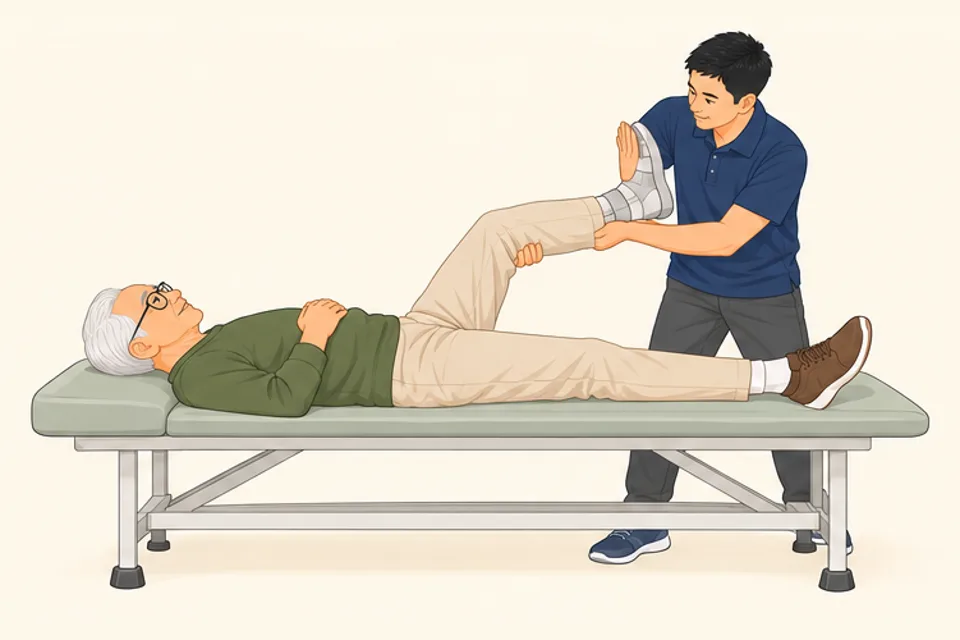
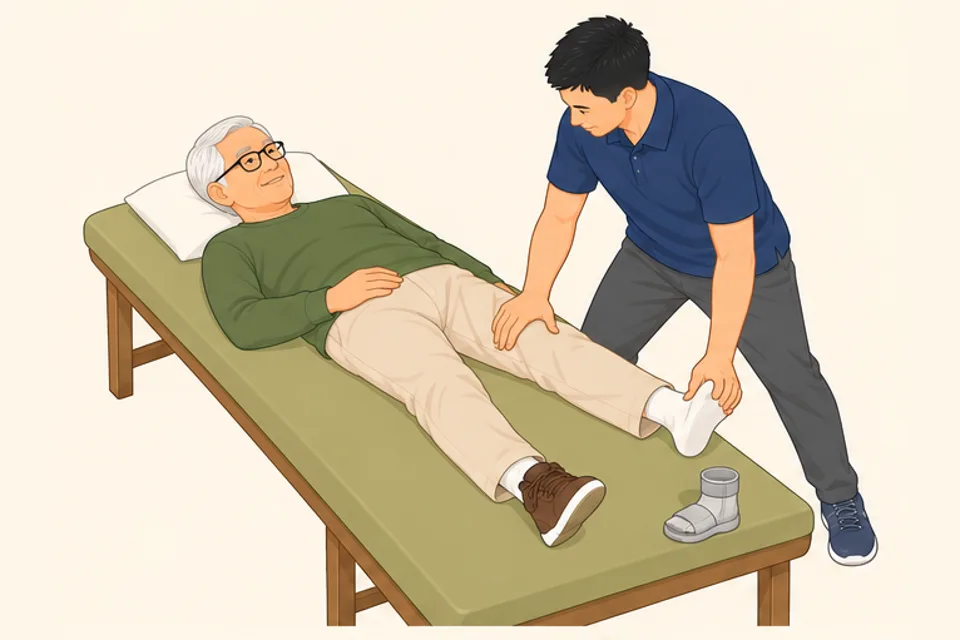
PNF beta：依 PNF in Practice 5th 手位標準重畫 19 張示意圖（圖說附書頁）

diff --git a/pnf-beta/figures.js b/pnf-beta/figures.js
@@ -46,6 +46,13 @@ window.PNF_FIGURES = {
    "alt": "阿伯屈膝仰躺準備做橋式，治療師雙手放在骨盆",
    "caption": "<b>橋式：</b>雙膝彎曲、雙腳踩床。治療師手放在骨盆給穩定阻力，或在膝上沿大腿往腳的方向擠壓，協助患側臀肌出力；骨盆抬起時注意腰不要過度後仰。",
    "credit": "本站以 AI 繪製之示意圖（非真人照片）"
+  },
+  {
+   "src": "img/4-2_roll.webp",
+   "ratio": 0.6667,
+   "alt": "白髮戴眼鏡、綠色毛衣、卡其褲的左側偏癱阿伯（左腳穿淺灰色踝足矯正器）仰躺在治療床靠近右緣的位置，正往右側（健側）翻身到一半：頭和眼睛已轉向右邊，左膝屈曲、左腳踩床，左手臂放在胸前。短黑髮、深藍色 polo 衫的年輕男治療師站在床的左側、阿伯",
+   "caption": "<b>翻身：</b>治療師在個案身後，一手勾在肩峰前方、一手勾在髂嵴前方，以肩胛與骨盆當「把手」引導向前翻；先請個案頭和眼睛轉向要翻的方向，再給口令「翻過來」。書中示範組合為骨盆前上提＋肩胛前下壓。",
+   "credit": "本站以 AI 繪製之示意圖（非真人照片）；手位依 Beckers & Buck (2021) 書頁 217–220"
   }
  ],
  "4-3": [
@@ -79,6 +86,27 @@ window.PNF_FIGURES = {
   }
  ],
  "4-4": [
+  {
+   "src": "img/4-4_sprinter_supine.webp",
+   "ratio": 0.6667,
+   "alt": "白髮戴眼鏡、綠色毛衣、卡其褲的左側偏癱阿伯（左腳穿淺灰色踝足矯正器）仰躺在治療床上，左腳矯正器已脫下。阿伯左腿屈髖屈膝往上抬（擺盪腿），右腿伸直平放（支撐腿）；右手往前上方舉向天花板偏左（與左腿成對角），左手伸直放在身旁床面；頭稍微轉向右側",
+   "caption": "<b>Sprinter（短跑者）仰躺版：</b>一側手往前上方舉，對側腳屈髖屈膝，像短跑跨步時手腳交替的姿勢；治療師一手在膝部、一手在前臂，引導手腳一起出力。",
+   "credit": "本站以 AI 繪製之示意圖（非真人照片）；手位依 Beckers & Buck (2021) "
+  },
+  {
+   "src": "img/4-4_sprinter_stand.webp",
+   "ratio": 0.6667,
+   "alt": "白髮戴眼鏡、綠色毛衣、卡其褲的左側偏癱阿伯（左腳穿淺灰色踝足矯正器）站在高度及腰的治療桌左側，身體朝前。阿伯左腳（患側，穿矯正器）支撐，右腳屈膝往前小幅抬起；右手扶在前方桌面，左手臂自然放在身旁；頭稍轉向左腳方向。短黑髮、深藍色 polo ",
+   "caption": "<b>Sprinter 站姿：</b>患腳支撐、健腳往前小幅抬起，健側手在前方扶桌；治療師在骨盆提供穩定，不代替個案抬腳。先短時間、在扶持下練習。",
+   "credit": "本站以 AI 繪製之示意圖（非真人照片）；手位依 Beckers & Buck (2021) "
+  },
+  {
+   "src": "img/4-4_skater.webp",
+   "ratio": 0.6667,
+   "alt": "白髮戴眼鏡、綠色毛衣、卡其褲的左側偏癱阿伯（左腳穿淺灰色踝足矯正器）站在高度及腰的治療桌旁，桌子在阿伯左側。阿伯左腳（患側，穿矯正器）支撐、膝微彎，身體稍往前傾，右腳往右後方伸、腳尖輕點地；左手扶在左側桌面，右手自然往前。短黑髮、深藍色 p",
+   "caption": "<b>Skater（溜冰者）：</b>患側腳支撐、身體稍前傾，對側腳往後伸，支撐側的手扶在桌上；治療師在骨盆協助穩定。先在扶持下短時間練習，再延長時間。（本練習來自以 PNF 為基礎的步行協調訓練，實證初步）",
+   "credit": "本站以 AI 繪製之示意圖（非真人照片）；手位依 Beckers & Buck (2021) "
+  },
   {
    "src": "img/4-4_photo_walk.webp",
    "ratio": 1.2931,
@@ -143,6 +171,13 @@ window.PNF_FIGURES = {
  ],
  "3-7": [
   {
+   "src": "img/3-7_hr.webp",
+   "ratio": 0.6667,
+   "alt": "白髮戴眼鏡、綠色毛衣、卡其褲的左側偏癱阿伯（左腳穿淺灰色踝足矯正器）坐在椅子上，左前臂放在身旁治療桌上的軟枕，左手肘已被伸到約 130 度、手指自然放鬆微彎。短黑髮、深藍色 polo 衫的年輕男治療師坐在阿伯左前方的矮凳上，右手手掌從下方貼",
+   "caption": "<b>維持放鬆用在中風手肘：</b>先把前臂支撐好，將手肘慢慢伸到感覺緊的位置，治療師手放在前臂掌側近手腕處，請個案「輕輕往彎的方向頂住、不要動」5～8 秒，一起慢慢放鬆後再伸直一點，最後請他主動伸肘。全程不可引起疼痛；須分清楚痙攣與攣縮。",
+   "credit": "本站以 AI 繪製之示意圖（非真人照片）；手位依 Beckers & Buck (2021) 書頁 52–53"
+  },
+  {
    "src": "img/3-7_photo_hamstring.webp",
    "ratio": 0.6742,
    "alt": "治療室裡，病人仰躺，治療師一手扶腳踝、一手扶膝上，把伸直的腿抬高做腿後肌伸展",
@@ -160,6 +195,13 @@ window.PNF_FIGURES = {
    "alt": "治療師托住阿伯手腕，另一手貼在手背與手指背側，引導手腕上翹、手指打開",
    "caption": "<b>打開手：</b>一手放在手背引導手腕往上翹、手指伸直，另一手在前臂近手腕處托住兩側，避免大面積接觸掌心以免誘發抓握。口令：「手腕抬起來……手指打開」。",
    "credit": "本站以 AI 繪製之示意圖（非真人照片）"
+  },
+  {
+   "src": "img/4-5_reach.webp",
+   "ratio": 0.6667,
+   "alt": "白髮戴眼鏡、綠色毛衣、卡其褲的左側偏癱阿伯（左腳穿淺灰色踝足矯正器）坐在桌前，桌上左前方放一個透明水杯。阿伯左手（患側）正往前伸向水杯，手肘接近伸直、手指張開，眼睛看著杯子；右手放在右大腿上。短黑髮、深藍色 polo 衫的年輕男治療師站在阿",
+   "caption": "<b>伸手拿東西：</b>患手伸向杯子，治療師在患側後方，一手手指勾在肩峰前方引導肩胛往前上方，另一手托住患側前臂；讓遠端的手完成拿取（近端引導、遠端活動）。偏癱肩：肩胛未帶動前，不強拉手臂。",
+   "credit": "本站以 AI 繪製之示意圖（非真人照片）；手位依 Beckers & Buck (2021) 書頁 136"
   }
  ],
  "1-2": [
@@ -257,6 +299,115 @@ window.PNF_FIGURES = {
     }
    ],
    "credit": "本站以 AI 繪製之示意圖（非真人照片）"
+  }
+ ],
+ "1-1": [
+  {
+   "src": "img/1-1_touch.webp",
+   "ratio": 0.6667,
+   "alt": "白髮戴眼鏡、綠色毛衣、卡其褲的左側偏癱阿伯（左腳穿淺灰色踝足矯正器）坐在無扶手椅上，左前臂放在身旁的治療桌上、手腕放鬆。短黑髮、深藍色 polo 衫的年輕男治療師站在阿伯左前方約 45 度斜角，採前後弓箭步（右腳在前），肩膀與骨盆都朝向阿伯",
+   "caption": "<b>停（手）：</b>用蚓狀肌抓握貼在「要出力的那一面」，施力方向與動作方向相反；治療師站在動作的對角線上，以身體重心給阻力，手臂保持放鬆。",
+   "credit": "本站以 AI 繪製之示意圖（非真人照片）；手位依 Beckers & Buck (2021) 書頁 24"
+  }
+ ],
+ "1-3": [
+  {
+   "src": "img/1-3_resist.webp",
+   "ratio": 0.6667,
+   "alt": "白髮戴眼鏡、綠色毛衣、卡其褲的左側偏癱阿伯（左腳穿淺灰色踝足矯正器）坐在椅子上，左臂正往左上方舉起（屈曲－外展－外旋，手指張開、手腕往拇指側上翹、前臂外轉），舉到約與肩同高。短黑髮、深藍色 polo 衫的年輕男治療師站在阿伯左後方斜角、靠近",
+   "caption": "<b>阻力：</b>遠端手以蚓狀肌抓握接觸手背、握住手的兩側給旋轉阻力，阻力方向沿弧線指回起始位置；治療師站在動作對角線上，以身體重量施力。阻力以「動作仍平順、可完成」為宜；一旦患側出現聯合反應，立即減輕。",
+   "credit": "本站以 AI 繪製之示意圖（非真人照片）；手位依 Beckers & Buck (2021) 書頁 103–107"
+  }
+ ],
+ "1-6": [
+  {
+   "src": "img/1-6_timing.webp",
+   "ratio": 0.6667,
+   "alt": "白髮戴眼鏡、綠色毛衣、卡其褲的左側偏癱阿伯（左腳的淺灰色踝足矯正器已脫下放在床尾，左腳只穿白襪，方便治療師接觸足背）仰躺在治療床上，靠近床的左緣，左腿伸直、略外展，左腳正往上勾、往內翻（腳背朝向右肩方向），膝與髖尚未彎曲。短黑髮、深藍色 p",
+   "caption": "<b>正常時序（遠端→近端）：</b>遠端手放在足背（不碰足底），先讓腳踝勾起並維持，再讓膝與髖一起屈曲。",
+   "credit": "本站以 AI 繪製之示意圖（非真人照片）；手位依 Beckers & Buck (2021) 書頁 157"
+  }
+ ],
+ "2-1": [
+  {
+   "src": "img/2-1_ant_elev.webp",
+   "ratio": 0.6667,
+   "alt": "白髮戴眼鏡、綠色毛衣、卡其褲的左側偏癱阿伯（左腳穿淺灰色踝足矯正器）向右側躺在治療床上，背部靠近床緣，髖與膝都屈曲約 45 度、兩膝之間夾一個枕頭，頭由枕頭支撐在中立位；左手臂自然放在身體前方的枕頭上，肱骨可自由移動。短黑髮、深藍色 pol",
+   "caption": "<b>肩胛前上提（anterior elevation）：</b>手指彎曲勾在肩峰與肩關節前方（用手指、不用手掌），引導肩胛往前上方、朝鼻子的方向；治療師站在個案身後腰部高度，面向個案頭部。",
+   "credit": "本站以 AI 繪製之示意圖（非真人照片）；手位依 Beckers & Buck (2021) 書頁 83–84"
+  },
+  {
+   "src": "img/2-1_post_dep.webp",
+   "ratio": 0.6667,
+   "alt": "白髮戴眼鏡、綠色毛衣、卡其褲的左側偏癱阿伯（左腳穿淺灰色踝足矯正器）向右側躺在治療床上，背部靠近床緣，髖膝屈曲約 45 度、兩膝間夾枕頭，左手臂放在身體前方的枕頭上。短黑髮、深藍色 polo 衫的年輕男治療師站在阿伯背後、約在阿伯腰部高度，",
+   "caption": "<b>肩胛後下壓（posterior depression）：</b>雙手掌根沿肩胛骨內緣與下角，手指指向肩峰，引導肩胛往下、往後、朝下胸椎方向收。中風個案的肩胛常停在後縮下壓，這個型態用來練主動控制，不是再把肩胛往下壓。",
+   "credit": "本站以 AI 繪製之示意圖（非真人照片）；手位依 Beckers & Buck (2021) 書頁 84–85"
+  }
+ ],
+ "2-3": [
+  {
+   "src": "img/2-3_ue_grip.webp",
+   "ratio": 0.6667,
+   "alt": "白髮戴眼鏡、綠色毛衣、卡其褲的左側偏癱阿伯（左腳穿淺灰色踝足矯正器）仰躺在治療床上、靠近床的左緣，左臂位於 D2 屈曲的起始位置：手臂伸直斜放在右髖前方、前臂內轉、手腕往小指側下彎、手指握起，掌心朝右髖。短黑髮、深藍色 polo 衫的年輕男",
+   "caption": "<b>上肢型態的手位：</b>遠端手只接觸手的「出力面」（D2 屈曲接觸手背、D1 屈曲接觸手掌），以蚓狀肌抓握握住手的兩側控制旋轉，不要整個握住；近端手從下方握住前臂近手腕處，屈肘型態再移到上臂。",
+   "credit": "本站以 AI 繪製之示意圖（非真人照片）；手位依 Beckers & Buck (2021) 書頁 105"
+  },
+  {
+   "src": "img/2-3_ue_d2flex.webp",
+   "ratio": 0.6667,
+   "alt": "白髮戴眼鏡、綠色毛衣、卡其褲的左側偏癱阿伯（左腳穿淺灰色踝足矯正器）仰躺在治療床上、靠近床的左緣，左臂位於 D2 屈曲的終點：手臂伸直舉到頭頂左外上方、約離左耳三指寬，掌心斜向外、手指張開、手腕往拇指側上翹，眼睛看著左手。短黑髮、深藍色 p",
+   "caption": "<b>上肢 D2 屈曲（屈曲－外展－外旋）：</b>手從對側髖前方往同側頭頂外上方舉起，手指張開、手腕往拇指側上翹，終點約離耳朵三指寬，像拔劍後高舉。口令：「手往上，舉起手臂」。",
+   "credit": "本站以 AI 繪製之示意圖（非真人照片）；手位依 Beckers & Buck (2021) 書頁 105–107"
+  }
+ ],
+ "2-4": [
+  {
+   "src": "img/2-4_le_flex.webp",
+   "ratio": 0.6667,
+   "alt": "白髮戴眼鏡、綠色毛衣、卡其褲的左側偏癱阿伯（左腳的淺灰色踝足矯正器已脫下放在床尾，左腳只穿白襪，方便治療師接觸足背）仰躺在治療床上、靠近床的左緣，左腿正在做屈曲－內收－外旋：左腳勾起並往內翻，左膝彎曲約 60 度，大腿斜向朝阿伯右肩方向越過",
+   "caption": "<b>下肢 D1 屈曲（屈曲－內收－外旋）：</b>遠端手握在足背兩側（不碰足底），近端手在膝上方大腿前內側；先勾腳往內翻，再帶動髖膝往上、往內，朝對側肩膀方向。對應功能：跨步、上樓梯抬腳。",
+   "credit": "本站以 AI 繪製之示意圖（非真人照片）；手位依 Beckers & Buck (2021) 書頁 157–158"
+  },
+  {
+   "src": "img/2-4_le_ext.webp",
+   "ratio": 0.6667,
+   "alt": "白髮戴眼鏡、綠色毛衣、卡其褲的左側偏癱阿伯（左腳的淺灰色踝足矯正器已脫下放在床尾，左腳只穿白襪，方便治療師接觸足背）仰躺在治療床上、靠近床的左緣，左腿從屈曲－內收位置往下、往外伸展到一半：左膝伸直，左腳尖往下踩、往外翻。短黑髮、深藍色 po",
+   "caption": "<b>下肢 D1 伸展（伸展－外展－內旋）：</b>遠端手掌心貼足底、近端手在大腿後外側；腳尖往下踩並往外翻，帶動髖往下、往外伸展。口令：「往下踩、往外踢」。對應功能：站立末期推進、坐站的伸髖伸膝。",
+   "credit": "本站以 AI 繪製之示意圖（非真人照片）；手位依 Beckers & Buck (2021) 書頁 163–164"
+  }
+ ],
+ "3-6": [
+  {
+   "src": "img/3-6_repstretch.webp",
+   "ratio": 0.6667,
+   "alt": "白髮戴眼鏡、綠色毛衣、卡其褲的左側偏癱阿伯（左腳的淺灰色踝足矯正器已脫下放在床尾，左腳只穿白襪，方便治療師接觸足背）仰躺在治療床上、靠近床的左緣，左腿在 D1 屈曲的拉長起始位置：左髖伸直並稍外展、內轉，左腳往下踩並往外翻，膝伸直。短黑髮、",
+   "caption": "<b>重複牽拉：</b>在型態完全拉長的位置先給預備口令，快速小幅再拉長一下，同時說「勾！」並立即給阻力；感到力量變弱再重複，一個型態約 3～4 次。禁忌：關節不穩、骨折或骨質疏鬆、肌肉肌腱受傷、疼痛。",
+   "credit": "本站以 AI 繪製之示意圖（非真人照片）；手位依 Beckers & Buck (2021) 書頁 47–49"
+  }
+ ],
+ "2-5": [
+  {
+   "src": "img/2-5_chop.webp",
+   "ratio": 0.6667,
+   "alt": "白髮戴眼鏡、綠色毛衣、卡其褲的左側偏癱阿伯（左腳穿淺灰色踝足矯正器）坐在床邊，雙腳平踩地面。阿伯右手（健側、領先手）從左肩前上方往右膝外側斜下劈，手臂伸直、前臂內轉；左手握住右手手腕跟隨；阿伯收下巴，頭往右下方轉、眼睛看著右膝，上軀幹往右前",
+   "caption": "<b>Chopping（劈）：</b>跟隨手握住領先手的手腕（不是雙手交握），從對側頭頂上方往同側膝蓋斜下劈，頭跟著屈曲、轉向膝蓋；治療師一手在領先手，一手在前額引導頭頸。偏癱個案若改用雙手交握，屬臨床調整，軀幹動作的重點不變。",
+   "credit": "本站以 AI 繪製之示意圖（非真人照片）；手位依 Beckers & Buck (2021) 書頁 198–199"
+  },
+  {
+   "src": "img/2-5_lift.webp",
+   "ratio": 0.6667,
+   "alt": "白髮戴眼鏡、綠色毛衣、卡其褲的左側偏癱阿伯（左腳穿淺灰色踝足矯正器）坐在床邊，雙腳平踩地面，軀幹挺直並往左上方伸展旋轉。阿伯左手（領先手）往左上方高舉，手指張開；右手握住左手手腕跟隨；頭往後、往左轉，眼睛看著左手。短黑髮、深藍色 polo ",
+   "caption": "<b>Lifting（舉）：</b>領先手往同側頭頂外上方舉（D2 屈曲），跟隨手握住領先手的手腕，頭往後、往同側轉，眼睛跟著手；治療師一手在領先手手背，一手在頭頂。往患側做 lifting 可帶動患側軀幹伸展。",
+   "credit": "本站以 AI 繪製之示意圖（非真人照片）；手位依 Beckers & Buck (2021) 書頁 200–201"
+  }
+ ],
+ "3-4": [
+  {
+   "src": "img/3-4_dr.webp",
+   "ratio": 0.6667,
+   "alt": "白髮戴眼鏡、綠色毛衣、卡其褲的左側偏癱阿伯（左腳的淺灰色踝足矯正器已脫下放在床尾，左腳只穿白襪，方便治療師接觸足背）仰躺在治療床上、靠近床的左緣，左腿剛做完屈曲－內收（左膝彎曲、腳勾起），正準備往下往外踢。短黑髮、深藍色 polo 衫的年輕",
+   "caption": "<b>動態反轉（DR）：</b>一個方向做到終點前，遠端手先滑到另一面（例如手背換到手掌），給預備口令，再給動作口令往反方向；病人開始反向後，近端手才換。先從較強的方向開始，最後停在較弱的方向；換方向時只給阻力，不再牽拉。",
+   "credit": "本站以 AI 繪製之示意圖（非真人照片）；手位依 Beckers & Buck (2021) 書頁 41–44"
   }
  ]
 };
